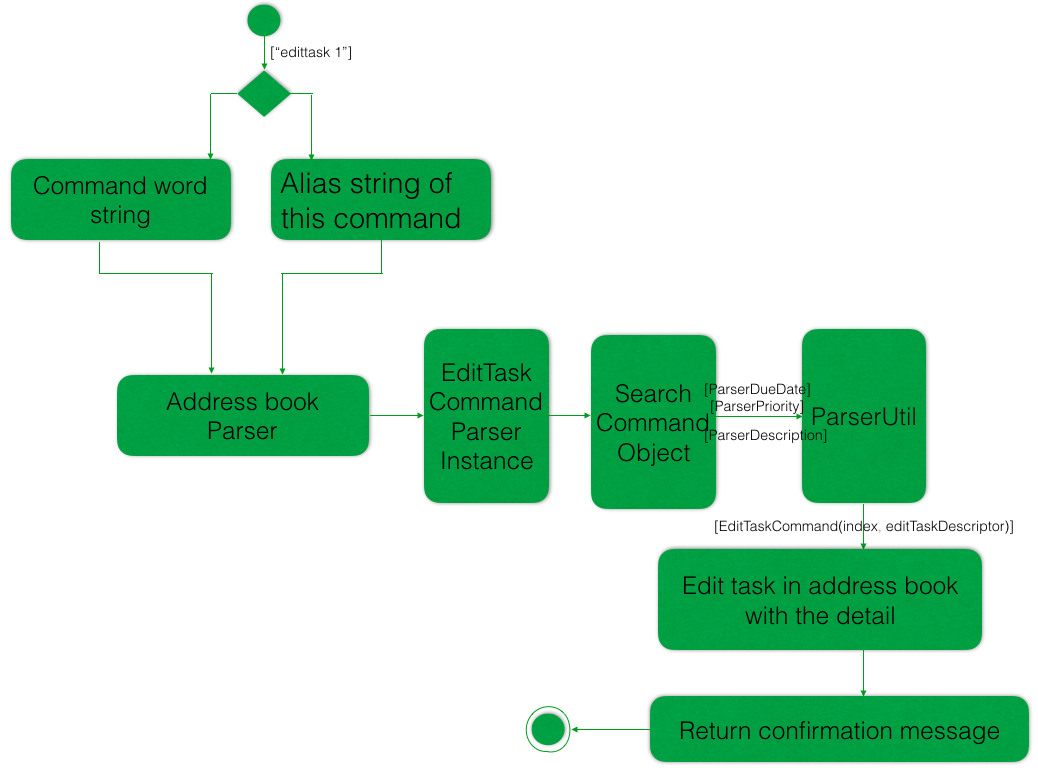
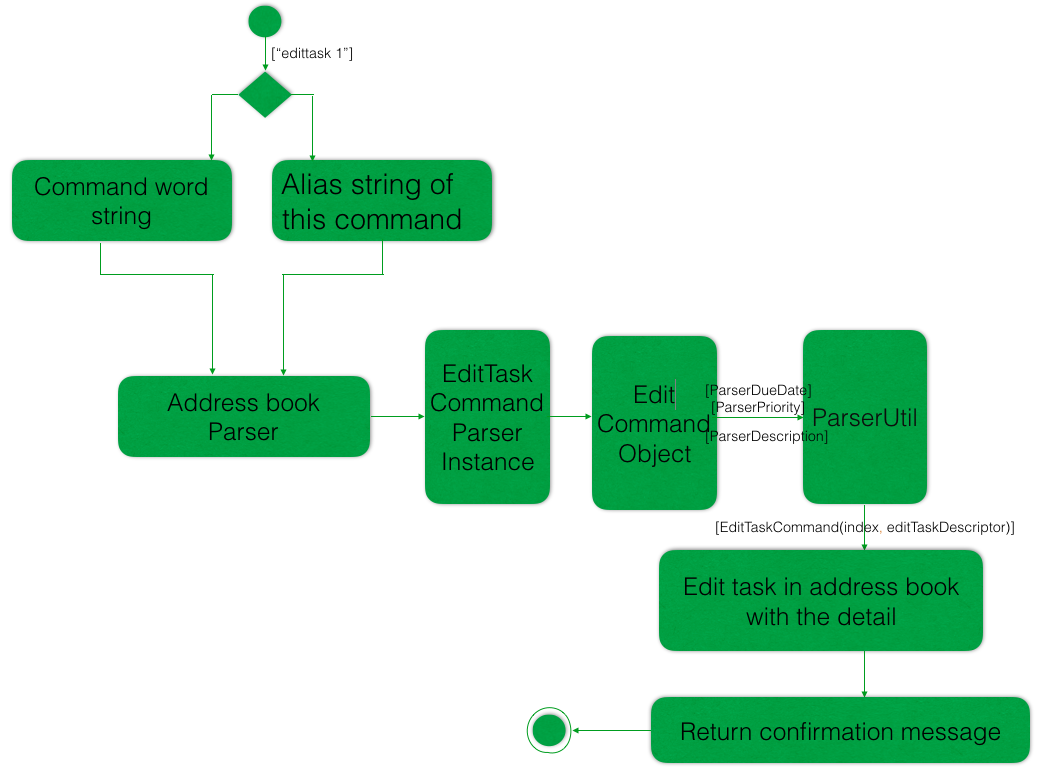
Modify portfolio

diff --git a/docs/team/JiayaoLi.html b/docs/team/JiayaoLi.html
@@ -447,9 +447,8 @@ can be served as a task-managing application as well. The user interacts with th
 </div>
 <div class="sect3">
 <h4 id="_external_behavior">External behavior</h4>
-<hr>
 <div class="paragraph">
-<p>A list of available alias is as follows:</p>
+<p>Alias of a command has the same effect as its corresponding command word. A list of available alias is as follows:</p>
 </div>
 <table class="tableblock frame-all grid-all spread">
 <colgroup>
@@ -517,7 +516,7 @@ can be served as a task-managing application as well. The user interacts with th
 <div class="olist arabic">
 <ol class="arabic">
 <li>
-<p>The image below demonstrates the example of using <code>a</code>.</p>
+<p>The image below demonstrates the example of using <code>a</code> as the alias for <code>add</code> to add a person in your contact pane.</p>
 <div class="paragraph">
 <p><span class="image"><img src="../images/AddCommandAlias.png" alt="AddCommandAlias" width="800"></span></p>
 </div>
@@ -710,7 +709,13 @@ This class makes uses of the powerful function from stream. The logic follow can
 <p><span class="image"><img src="../images/SearchTagActivityDiagram.png" alt="SearchTagActivityDiagram" width="800"></span></p>
 </div>
 <div class="paragraph">
-<p>The following code snippet shows the main logic in <code>NameWithTagContainsKeywordsPredicate.java</code>:</p>
+<p>In order to provide you another perspective, the following sequence diagram shows you how <code>SearchCommand</code> interacts with other objects in the Contact Plus application:</p>
+</div>
+<div class="paragraph">
+<p><span class="image"><img src="../images/SearchCommandSequenceDiagram.png" alt="SearchCommandSequenceDiagram" width="800"></span></p>
+</div>
+<div class="paragraph">
+<p>The following code snippet shows the main logic in Java code in <code>NameWithTagContainsKeywordsPredicate.java</code>:</p>
 </div>
 <div class="listingblock">
 <div class="content">
@@ -1250,10 +1255,14 @@ Format: <code>edittask INDEX d/DESCRIPTION priority/PRIORITY(0/1/2) on DUE DATE(
 <p>The command word for editing a task is <code>edittask</code>. When users key in the command word, together with valid description, priority and due date, the values will be passed into parseCommand() function in the AddressBookParser class.</p>
 </div>
 <div class="paragraph">
-<p>The basic main flow for <code>edittask</code> is as follows:</p>
+<p>The basic logic flow for <code>edittask</code> is displayed in the following activity diagram:</p>
 </div>
 <div class="paragraph">
 <p><span class="image"><img src="../images/EditTaskMainFlow.png" alt="EditTaskMainFlow" width="800"></span></p>
+</div>
+<div class="paragraph">
+<p>To provide you another perspective, the interaction of <code>EditTaskCommand</code> with other objects in Contact Plus Application is displayed in the following sequence diagram:
+<span class="image"><img src="../images/EditTaskSequenceDiagram.png" alt="EditTaskSequenceDiagram" width="800"></span></p>
 </div>
 </div>
 <div class="sect3">
@@ -1364,6 +1373,10 @@ Format: <code>cleartask</code></p>
 <div class="paragraph">
 <p><span class="image"><img src="../images/listTaskActivityDiagram.png" alt="listTaskActivityDiagram" width="800"></span></p>
 </div>
+<div class="paragraph">
+<p>To provide you another perspective, the following sequence diagram of <code>CleaTaskCommand</code> displays its interaction with the objects in teh Contact Plus application:
+<span class="image"><img src="../images/ClearTaskSequenceDiagram.png" alt="ClearTaskSequenceDiagram" width="800"></span></p>
+</div>
 </div>
 <div class="sect3">
 <h4 id="_prerequisites_dependencies_5">Prerequisites/Dependencies</h4>
@@ -1382,11 +1395,33 @@ delete it from the address book.</p>
 </div>
 </div>
 <div class="sect2">
+<h3 id="_reference">Reference</h3>
+<div id="edit-distance" class="paragraph">
+<p>Edit-distance</p>
+</div>
+<div class="literalblock">
+<div class="content">
+<pre>Edit distance is a way of quantifying how dissimilar two strings (e.g., words)
+are to one another by counting the minimum number of operations required to
+transform one string into the other.</pre>
+</div>
+</div>
+<div id="WOEID" class="paragraph">
+<p>WOEID</p>
+</div>
+<div class="literalblock">
+<div class="content">
+<pre>A WOEID (Where On Earth IDentifier) is a unique 32-bit reference identifier,
+originally defined by GeoPlanet and now assigned by Yahoo!, that identifies any feature on Earth.</pre>
+</div>
+</div>
+</div>
+<div class="sect2">
 <h3 id="_other_contributions">Other contributions</h3>
 <div class="ulist">
 <ul>
 <li>
-<p>Updated the GUI statusFootBar, and icon images for email, phone number, and address. (Pull requests <a href="https://github.com">#33</a>, <a href="https://github.com">#34</a>)</p>
+<p>Updated the GUI statusFootBar, and icon images for email, phone number, and address. (Pull requests <a href="https://github.com/CS2103AUG2017-W11-B1/main/pull/162/commits/19c74676b0ffaa65b9c25daba5cf606836b2e75d">##162</a>, <a href="https://github.com/CS2103AUG2017-W11-B1/main/pull/112">#112</a>)</p>
 </li>
 </ul>
 </div>
@@ -1396,9 +1431,8 @@ delete it from the address book.</p>
 </div>
 <div id="footer">
 <div id="footer-text">
-Last updated 2017-11-12 09:26:34 +08
+Last updated 2017-11-12 17:55:19 +08
 </div>
 </div>
 </body>
 </html>
-
